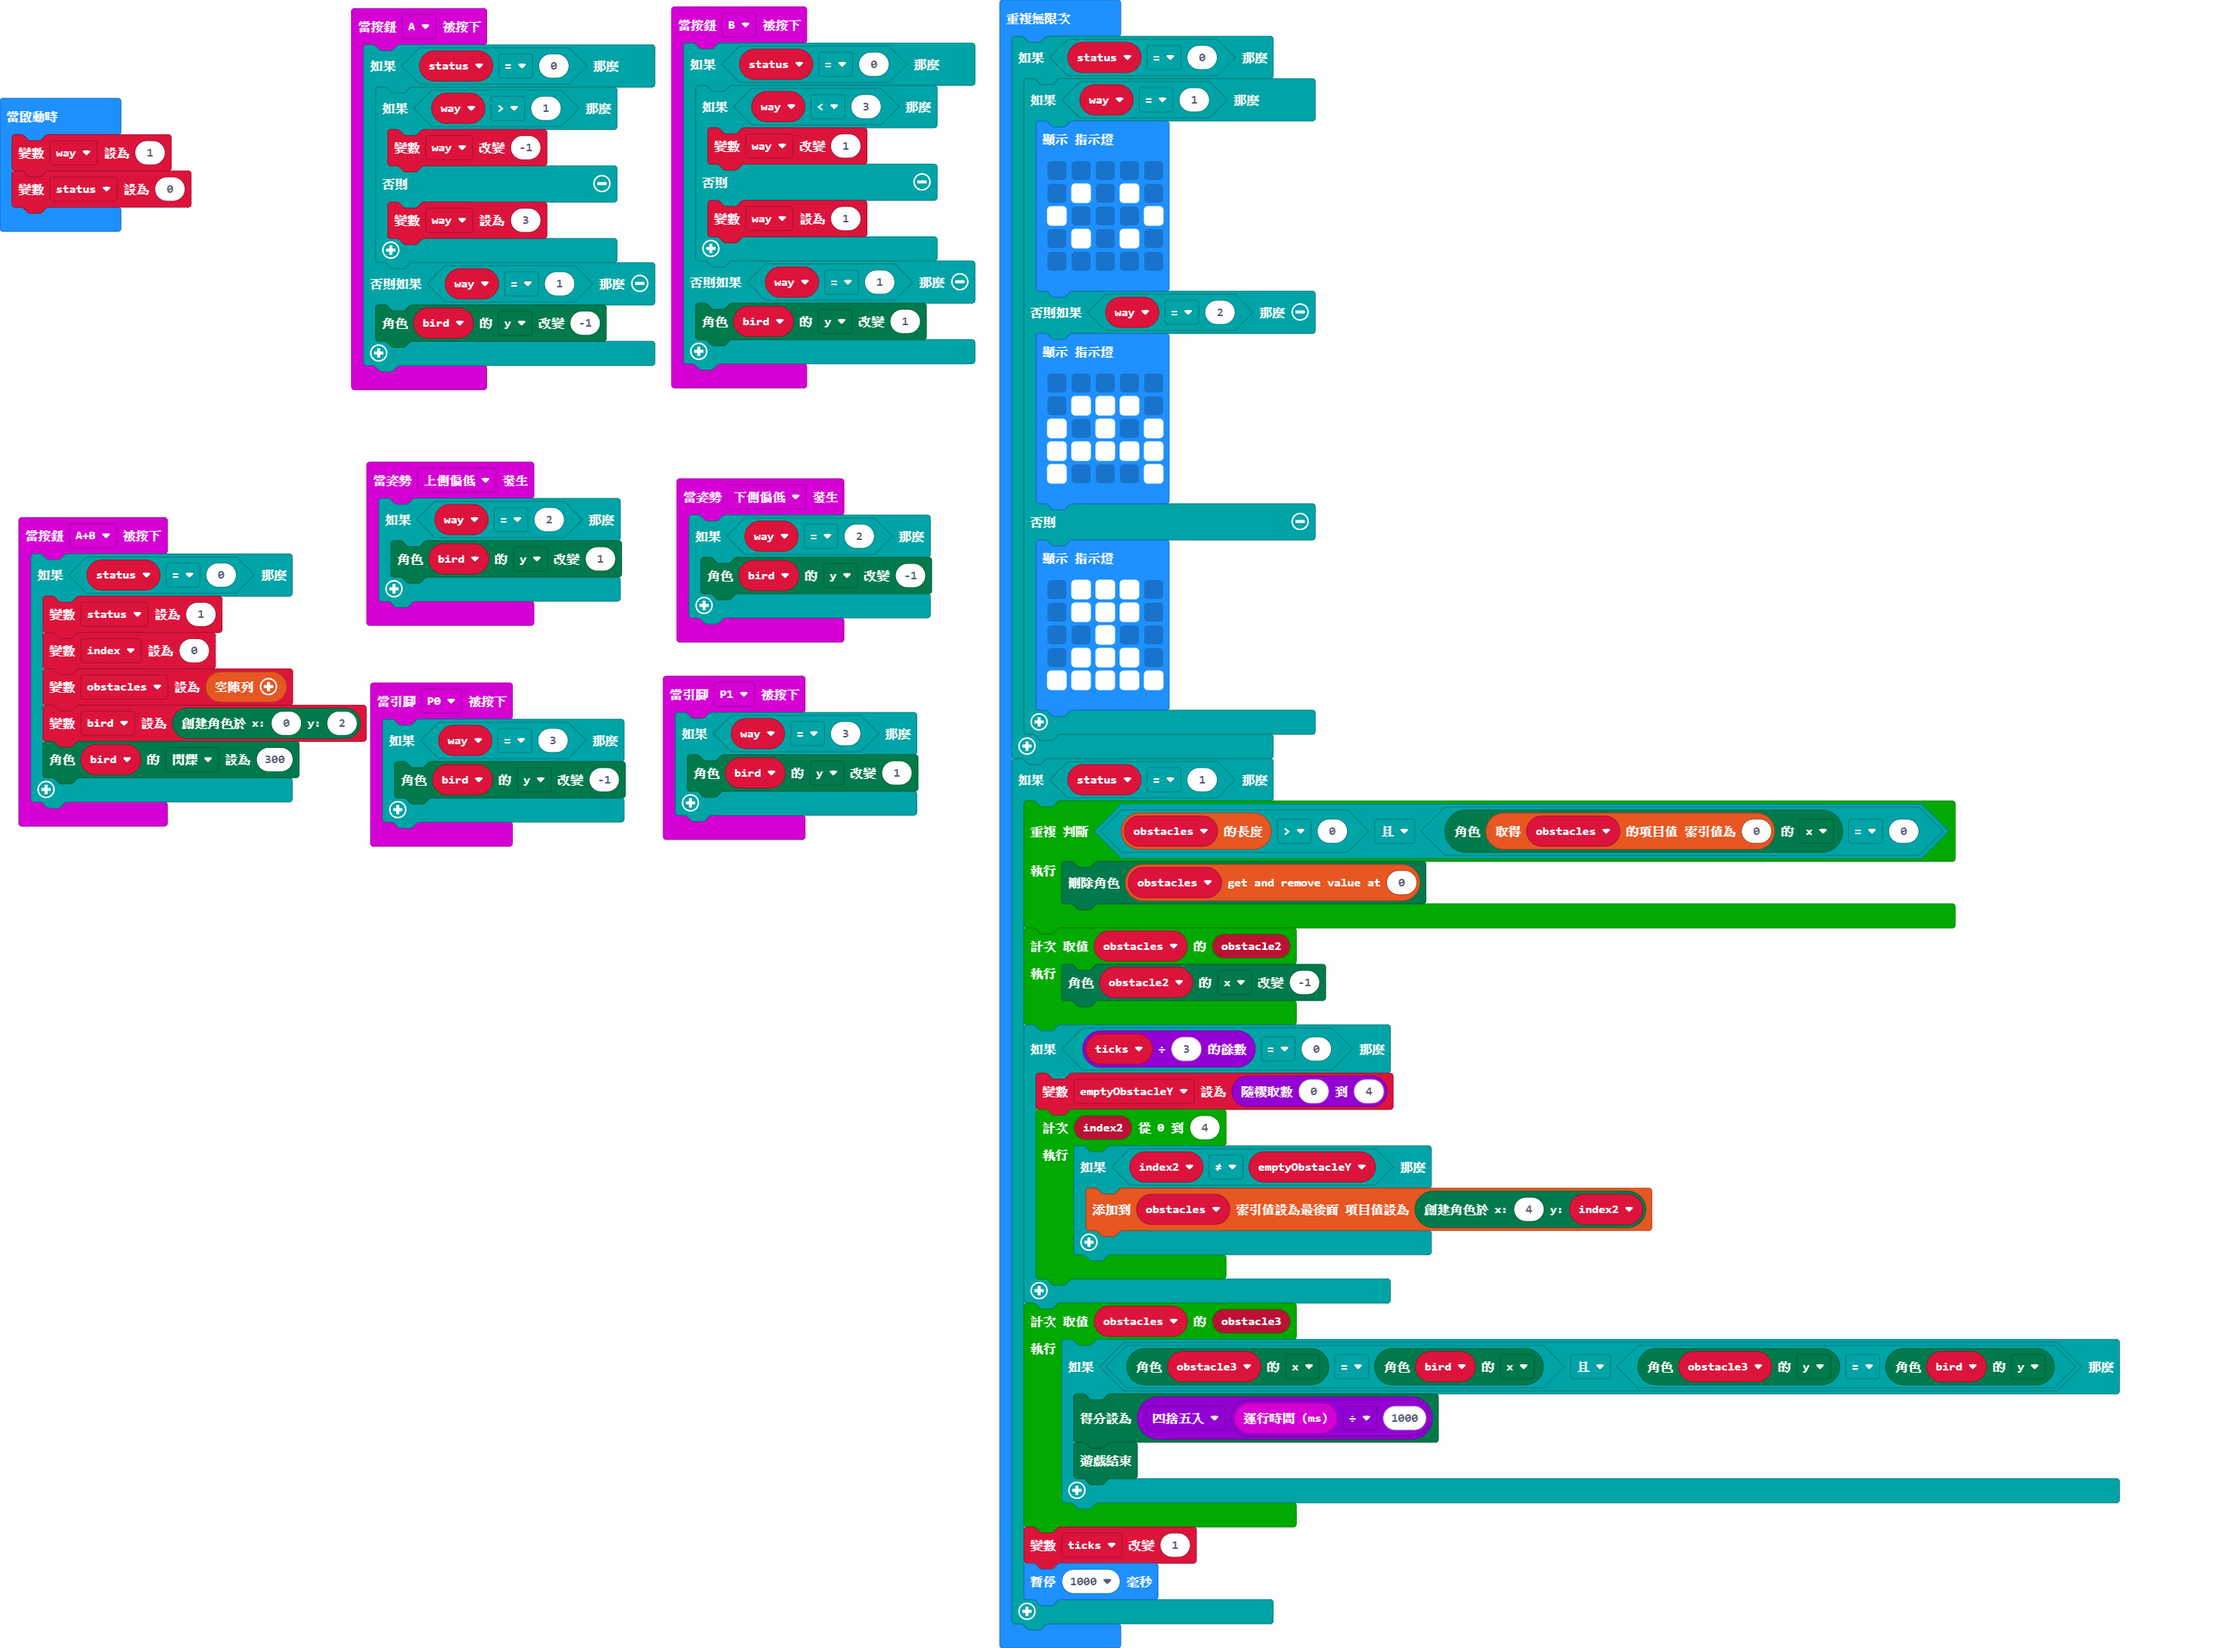
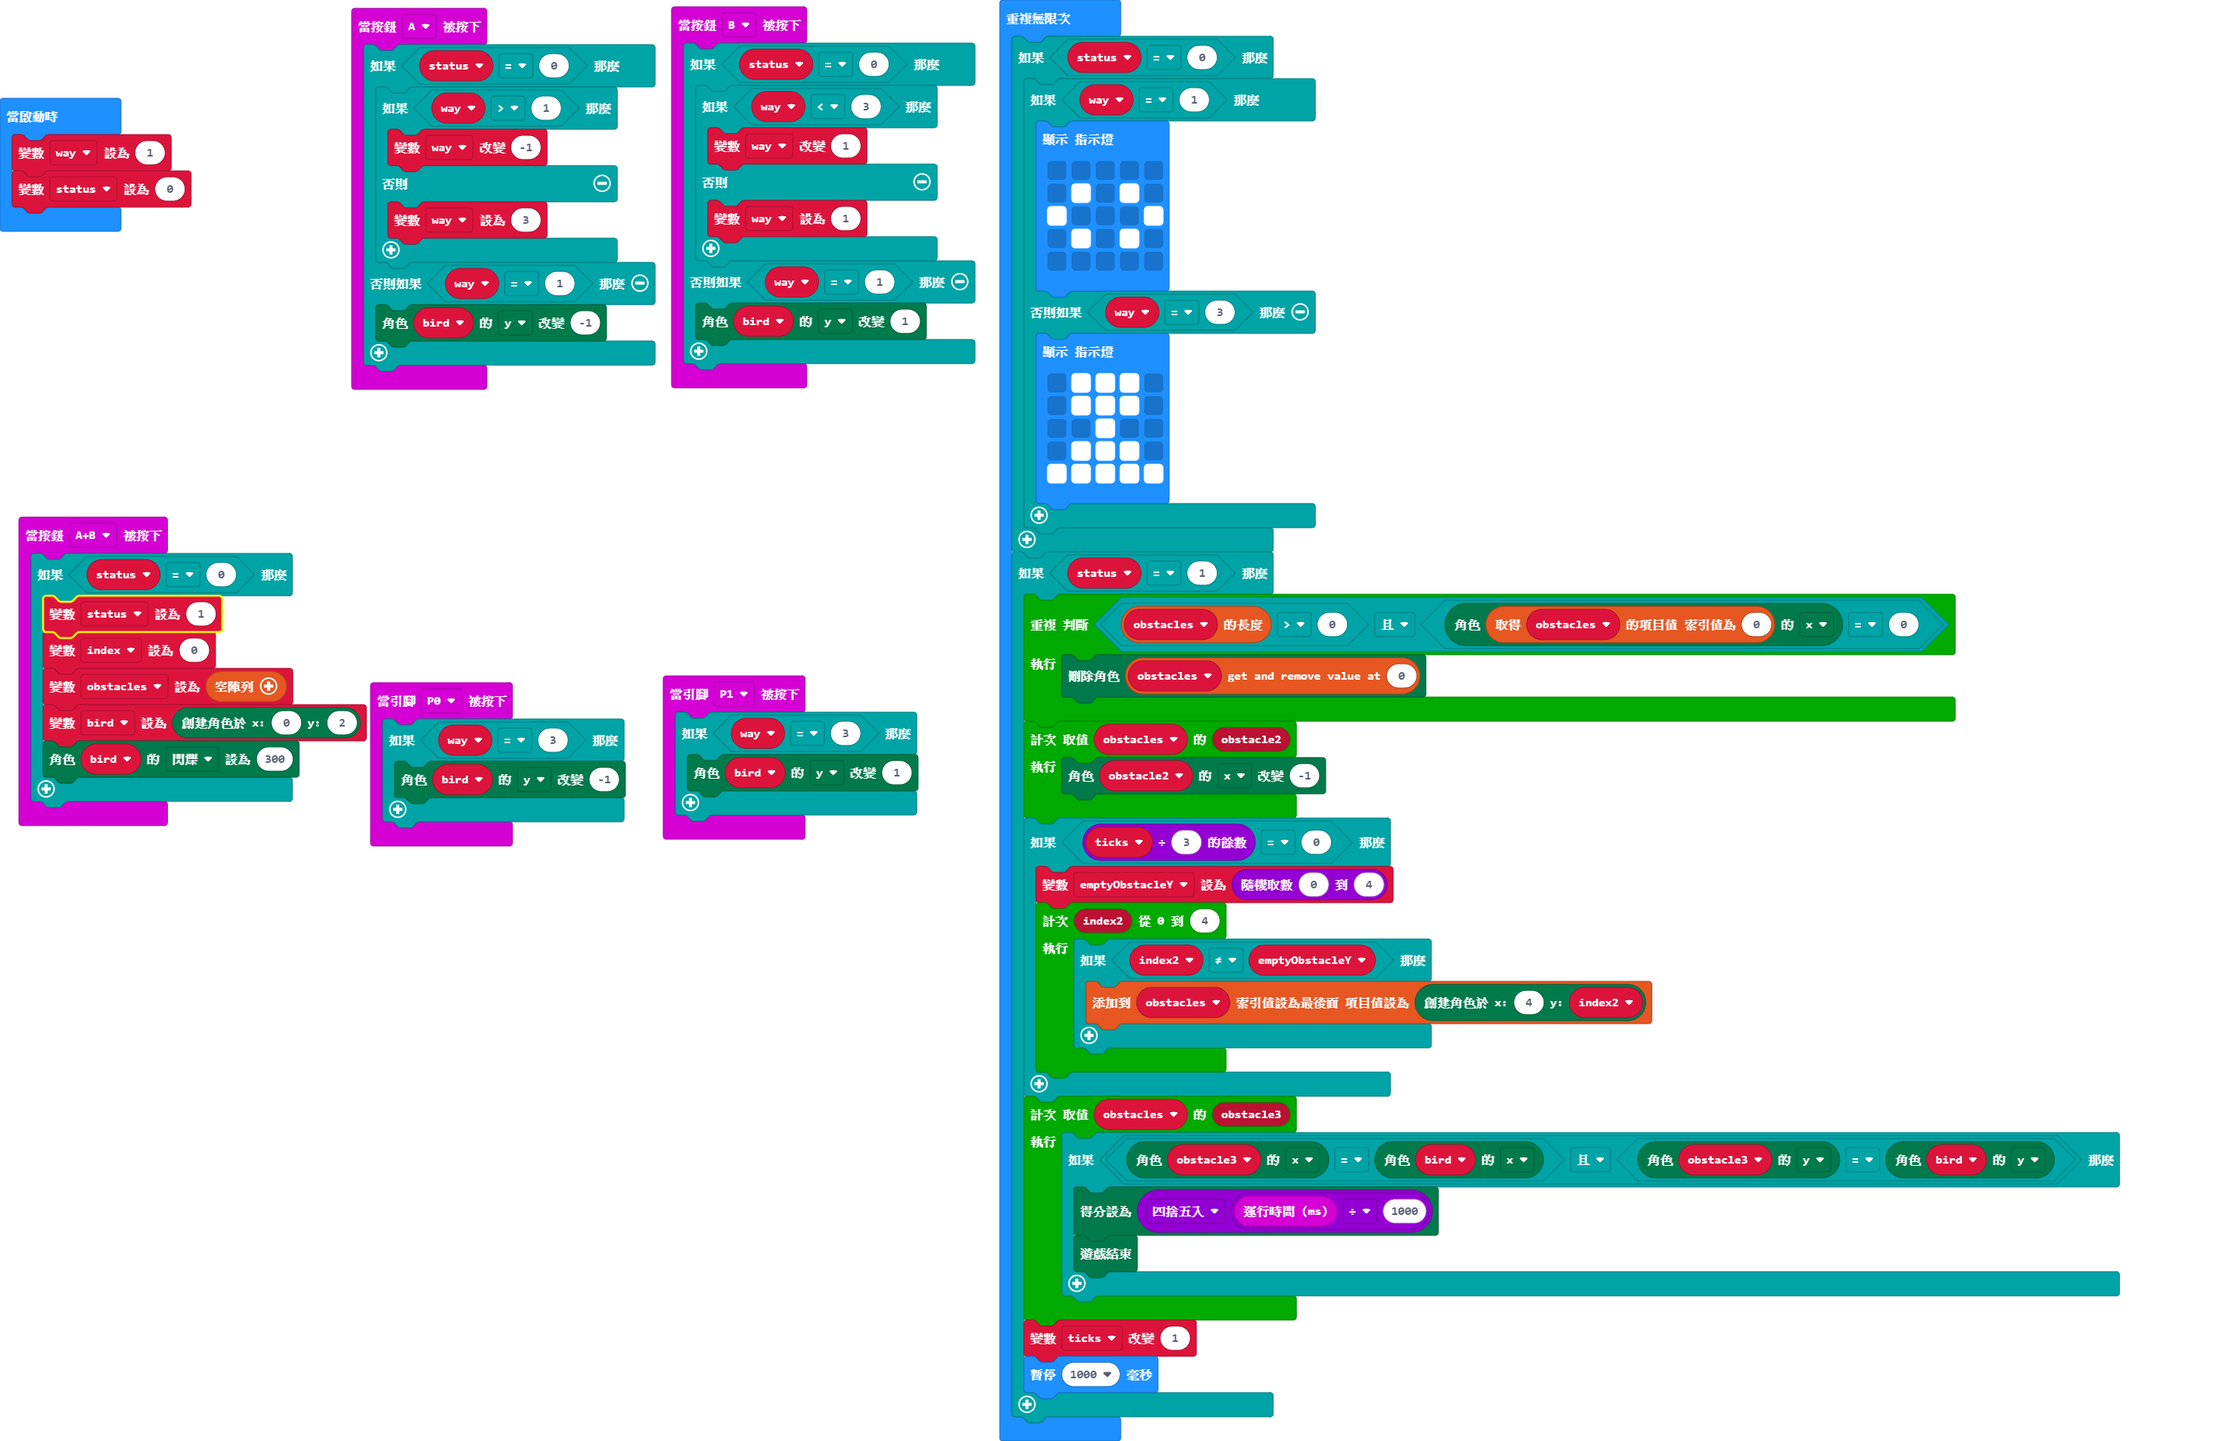
Bug Fix

Changed region(s): [[0.0, 0.0, 0.9642, 0.9906], [0.0, 0.0619, 0.0933, 0.1857]]

diff --git a/main.ts b/main.ts
@@ -3,11 +3,6 @@ input.onPinPressed(TouchPin.P0, function () {
         bird.change(LedSpriteProperty.Y, -1)
     }
 })
-input.onGesture(Gesture.LogoUp, function () {
-    if (way == 2) {
-        bird.change(LedSpriteProperty.Y, -1)
-    }
-})
 input.onButtonPressed(Button.A, function () {
     if (status == 0) {
         if (way > 1) {
@@ -17,11 +12,6 @@ input.onButtonPressed(Button.A, function () {
         }
     } else if (way == 1) {
         bird.change(LedSpriteProperty.Y, -1)
-    }
-})
-input.onGesture(Gesture.LogoDown, function () {
-    if (way == 2) {
-        bird.change(LedSpriteProperty.Y, 1)
     }
 })
 input.onButtonPressed(Button.AB, function () {
@@ -68,15 +58,7 @@ basic.forever(function () {
                 . # . # .
                 . . . . .
                 `)
-        } else if (way == 2) {
-            basic.showLeds(`
-                . . . . .
-                . # # # .
-                # . # . #
-                # # # # #
-                # . . . #
-                `)
-        } else {
+        } else if (way == 3) {
             basic.showLeds(`
                 . # # # .
                 . # # # .
